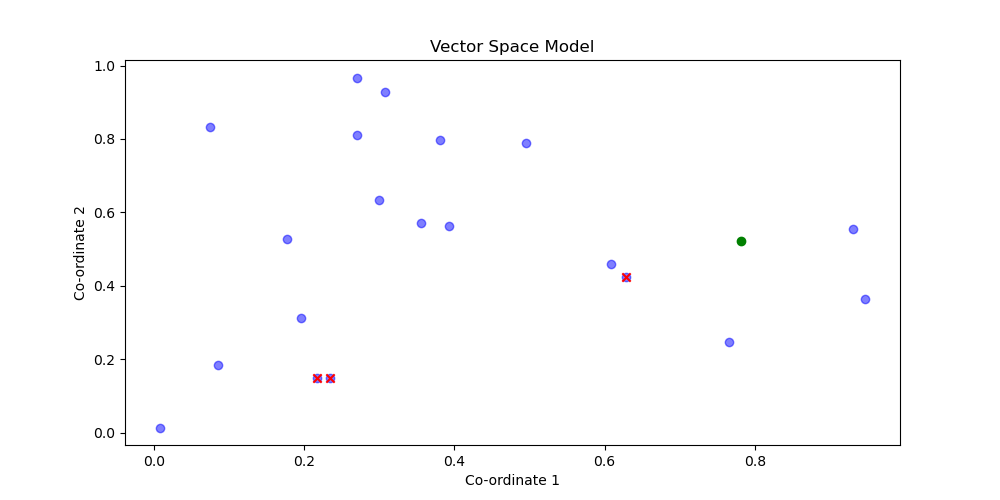
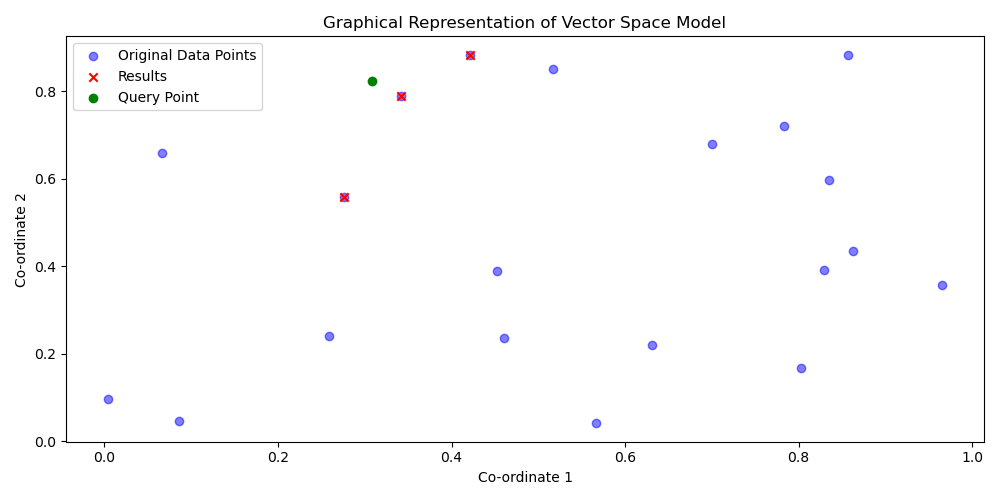
updated README

diff --git a/rust_vector/plotter.py b/rust_vector/plotter.py
@@ -1,0 +1,38 @@
+# importing the required libraries and packages
+import json
+import matplotlib.pyplot as plt
+
+# reading the data from the json files
+with open("./query_vector.json") as f:
+    query_vector = json.load(f)
+
+with open("./vectors.json") as f:
+    vectors = json.load(f)
+vectors = list(zip(*vectors))
+
+with open("./results.json") as f:
+    results = json.load(f)
+
+# converting results into list of numbers
+results_new = []
+for i in results:
+    i = i[1:-1]
+    i = i.split(",")
+    results_new.append([float(i[0]), float(i[1])])
+
+results_new = list(zip(*results_new))
+
+# plotting the graph
+plt.figure(figsize=(10, 5))
+plt.scatter(
+    vectors[0], vectors[1], color="blue", label="Original Data Points", alpha=0.5
+)
+plt.scatter(results_new[0], results_new[1], color="red", label="Results", marker="x")
+plt.scatter(query_vector[0], query_vector[1], color="green", label="Query Point")
+plt.xlabel("Co-ordinate 1")
+plt.ylabel("Co-ordinate 2")
+plt.legend()
+plt.title("Graphical Representation of Vector Space Model")
+plt.tight_layout()
+plt.savefig("../resources/vector_space_model.png")
+print(f"Saved Image")

diff --git a/README.md b/README.md
@@ -1,2 +1,81 @@
-# rust_template
-Base Template For Rust Projects
+# Rust Vector Database 
+
+[![CI/CD](https://github.com/nogibjj/IDS-721_rg361_week-07/actions/workflows/cicd.yml/badge.svg)](https://github.com/nogibjj/IDS-721_rg361_week-07/actions/workflows/cicd.yml)
+
+## 1. Overview
+
+In this project ``Rust`` is used to ingest data into a ``qdrant`` vector database and then perform some basic queries and aggregations.
+A visualization of the data is also provided for reference.
+
+CI/CD is implemented using Github Actions to automate processes like formatting, linting, etc.
+
+## 2. Introduction
+
+In a vector database, unlike a traditional database, the data is stored in the form of vectors. This allows for faster and more efficient querying of the data where we may need to find the "closest" items to an item we are looking for. Due to this nature, vector databases are used in applications like recommendation systems, search engines, etc.
+
+In this project, we will be using the ``qdrant`` vector database. The qdrant vector database is a high-performance and free vector database that is built using Rust. It is designed to be fast and efficient and can be used in a variety of applications.
+
+Normally, the values will be converted into vectors using a process called embedding, and depending on the application, the embeddings vectors can be of different dimensions. In this project, we will randomly generate 20 vectors of 2 dimensions to simulate an embedding process and attach a number to them. we will then generate a random query vector and find the closest vectors to the query vector.
+
+
+## 3. Instructions
+
+### 3.1 Pre-requisites
+1. [Rust](https://www.rust-lang.org/tools/install)
+2. [Docker](https://docs.docker.com/get-docker/)
+
+### 3.2 Qdrant
+
+To use a qdrant vector database, we can make use of the qdrant docker image.
+
+- download the qdrant docker image using the following command:
+```bash
+docker pull qdrant/qdrant
+```
+
+- start the qdrant docker container and bind the ports respectively:  
+![qdrant](./resources/qdrant.png)
+
+alternatively, you can use the following command:
+```bash
+docker run -d -p 6333:6333 -p 6334:6334 qdrant/qdrant
+```
+
+- Once the container is running, you can access the qdrant dashboard by visiting the following URL [http://localhost:6333](http://localhost:6333) if required.
+
+**Note**: While the port number can be changed, it is recommended to use the default port number. in case you are using a different port number, make sure to update the port number in the code.
+
+### 3.3 Rust
+
+In rust we can interact with the qdrant database using the ``qdrant-client`` library.
+
+Ensure that you are connecting on the correct port number as defined in the previous step.
+
+The provided rust code performs the following operations:
+1. Ingest data into the qdrant database: It generates 20 random vectors to simulate embedding process and attaches a random label to each vector.
+2. Perform a basic query: It again generates a random vector and sends it to the qdrant database to find the closest vectors.
+3. It processes the results and prints the 3 closest vectors to the query vector.
+4. It prints and saves all the data in a JSON file for reference.
+
+To run the code, use the following command:
+```bash
+cargo run
+```
+
+**Sample Excution**:  
+![rust](./resources/sample_execution.png)
+
+### 3.4 Visualization
+
+A 2D visualization is made using the files which the rust code generates.
+
+The following 3 values are plotted on a 2D graph to demonstrate the process:
+- The 20 random vectors generated
+- The random vector generated for the query
+- The 3 closest vectors to the query vector
+
+**Visualization**:
+![visualization](./resources/vector_space_model.png)
+
+**Note**: since these points are all randomly generated, the visualization may look different each time the code is run.
+
